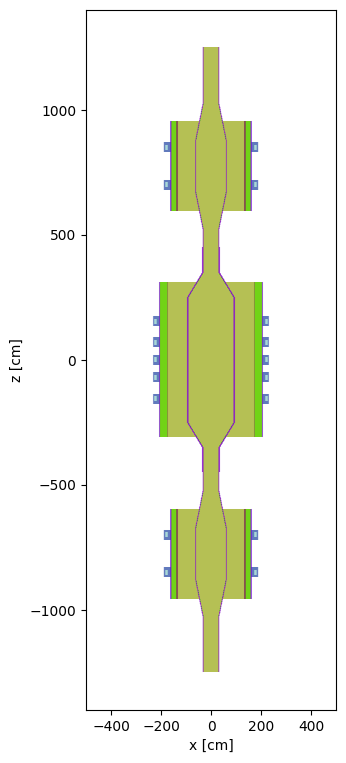
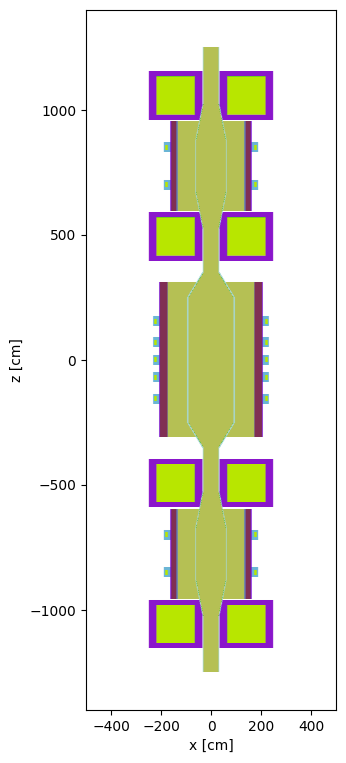
HF Coils added

diff --git a/tandem_geometry.py b/tandem_geometry.py
@@ -43,9 +43,9 @@ def parse_machine_input(input_data, material_ns):
         "central_fw": cc_fw_layers,
         "right_fw": ep_fw_layers,  # reuse
         "param_dict": {
-            "central": (cc_vv["outer_axial_length"], cc_vv["central_axis_length"], sep/2, sep/2, 0.0),
-            "left": (ep_vv["outer_axial_length"], ep_vv["central_axis_length"], end_axial, sep/2, left_midplane),
-            "right": (ep_vv["outer_axial_length"], ep_vv["central_axis_length"], sep/2, end_axial, right_midplane),
+            "central": (cc_vv["outer_axial_length"], cc_vv["central_axis_length"], sep/10, sep/10, 0.0),
+            "left": (ep_vv["outer_axial_length"], ep_vv["central_axis_length"], end_axial, 9*sep/10, left_midplane),
+            "right": (ep_vv["outer_axial_length"], ep_vv["central_axis_length"], 9*sep/10, end_axial, right_midplane),
         },
         "base_radii": {
             "central": cc_vv["central_radius"],
@@ -85,7 +85,20 @@ def parse_machine_input(input_data, material_ns):
         "end": input_data.get("end_plug", {}).get("lf_coil", {})
     }
 
-    return vv_params, fw_params, cyl_params, lf_coil_params
+    # --------- 5. HF Coil Params ---------
+    hf_coil_data = input_data.get("end_plug", {}).get("hf_coil", {})
+
+    hf_coil_params = {
+        key: {
+            "magnet": hf_coil_data.get(key, {}).get("magnet", {}),
+            "casing_layers": {
+                "thicknesses": [layer["thickness"] for layer in hf_coil_data.get(key, {}).get("casing_layers", [])],
+                "materials": [layer["material"] for layer in hf_coil_data.get(key, {}).get("casing_layers", [])]
+            },
+            "shield": hf_coil_data.get(key, {}).get("shield", {})
+        } for key in ["left", "right"]}
+
+    return vv_params, fw_params, cyl_params, lf_coil_params, hf_coil_params
 
 
 
@@ -139,8 +152,8 @@ class TandemVacuumVessel:
             central_cell_vv_central_axis_length,
             central_cell_central_radius,
             self.bottleneck_radius,
-            self.central_cell_end_plug_separation_distance / 2,
-            self.central_cell_end_plug_separation_distance / 2,
+            self.central_cell_end_plug_separation_distance / 10,
+            self.central_cell_end_plug_separation_distance / 10,
             axial_midplane=0.0,
         )
 
@@ -149,7 +162,7 @@ class TandemVacuumVessel:
             end_plug_vv_central_axis_length,
             end_plug_vv_central_radius,
             self.bottleneck_radius,
-            self.central_cell_end_plug_separation_distance / 2,
+            9 * self.central_cell_end_plug_separation_distance / 10,
             self.end_axial_distance,
             axial_midplane=right_midplane,
         )
@@ -160,7 +173,7 @@ class TandemVacuumVessel:
             end_plug_vv_central_radius,
             self.bottleneck_radius,
             self.end_axial_distance,
-            self.central_cell_end_plug_separation_distance / 2,
+            9 * self.central_cell_end_plug_separation_distance / 10,
             axial_midplane=left_midplane,
         )
 
@@ -194,6 +207,7 @@ class TandemFWStructure:
         self._cells_by_region = {"left": [], "central": [], "right": []}
         self._regions_by_region = {"left": [], "central": [], "right": []}
         self._z_extents = {}
+        self._fw_radii = {"left": [], "central": [], "right": []}
 
     def _process_layers(self, layer_dict, base_radius, bottleneck_radius, mat_ns):
         thicknesses = [layer["thickness"] for layer in layer_dict]
@@ -205,6 +219,11 @@ class TandemFWStructure:
     def build_all_sections(self, region_dict, param_dict, mat_ns, base_radii, bottleneck_radii, add_cell_callback):
         for key, fw_layers in zip(["left", "central", "right"], [self.left_fw, self.central_fw, self.right_fw]):
             outer_len, central_len, left_len, right_len, midplane = param_dict[key]
+            
+            # Flags
+            # print(f"For {[key]} section the left legnth is {left_len}")
+            # print(f"For {[key]} section the right legnth is {right_len}")
+            
             base_region = region_dict[key]
             base_r = base_radii[key]
             bott_r = bottleneck_radii[key]
@@ -214,6 +233,8 @@ class TandemFWStructure:
             self._z_extents[key] = (z_min, z_max)
 
             vac_radii, bott_radii, materials = self._process_layers(fw_layers, base_r, bott_r, mat_ns)
+
+            self._fw_radii[key] = bott_radii
 
             regions = [base_region]
             cells = []
@@ -248,6 +269,10 @@ class TandemFWStructure:
     def get_z_extents(self):
         return self._z_extents
     
+    def fw_radii(self):
+        return self._fw_radii
+        
+
 class TandemCentralCylinders:
     """
     Builds concentric cylindrical axial layers for left plug, central cell, and right plug regions.
@@ -396,6 +421,129 @@ class LFCoilBuilder:
 
     def get_regions_by_region(self):
         return self._regions_by_region
+    
+
+class HFCoilBuilder:
+    """
+    Builds HF Coils around the left and right end plugs.
+    Verifies that the bore radius matches the combined bottleneck + shield + casing geometry.
+    """
+
+    def __init__(self, hf_coil_params):
+        """
+        Parameters
+        ----------
+        hf_coil_params : dict
+            Output from parse_machine_input()[4]
+        """
+        self.coil_data = hf_coil_params
+        self._cells_by_region = {region: {"coil": [], "shield": []} for region in ["left", "right"]}
+        self._regions_by_region = {region: {"coil": [], "shield": []} for region in ["left", "right"]}
+
+    def build_all_sections(self, bottleneck_radii, cc_half_lengths, midplanes, mat_ns, add_cell_callback):
+        i = 0
+        for key in ["left", "right"]:
+            hf_data = self.coil_data[key]
+            magnet = hf_data["magnet"]
+            casing = hf_data["casing_layers"]
+            shield = hf_data["shield"]
+
+            casing_thicknesses = np.array(casing["thicknesses"])
+            casing_materials = [getattr(mat_ns, mat) for mat in casing["materials"]]
+            bore_radius = magnet["bore_radius"]
+            bottleneck_r = bottleneck_radii[key]
+
+            # Check bore radius
+            computed_bore = bottleneck_r + shield["radial_thickness"][0] + shield["radial_gap_before_casing"] + np.sum(casing_thicknesses)
+            if not np.isclose(computed_bore, bore_radius, atol=1e-4):
+                raise ValueError(f"HF {key} bore radius mismatch: expected {bore_radius}, got {computed_bore:.4f}")
+
+            # Compute base radius before casing begins
+            r_inner = bottleneck_r + shield["radial_thickness"][0] + shield["radial_gap_before_casing"]
+
+            for direction in ["inward", "outward"]:
+                if direction == "inward":
+                    axial_sign = 1 if key == "left" else -1
+                    axial_thickness = shield["axial_thickness"][0]
+                else:
+                    axial_sign = -1 if key == "left" else 1
+                    axial_thickness = shield["axial_thickness"][0]
+                z0 = (
+                    midplanes[key]
+                    + axial_sign * (
+                        cc_half_lengths[key]
+                        + shield["shield_central_cell_gap"]
+                        + axial_thickness
+                        + np.sum(casing_thicknesses)
+                        + magnet["axial_thickness"] / 2
+                    )
+                )
+
+                print(f"The z0 for the {direction} magnet on the {key} side is {z0}.")
+
+                # Magnet and casing
+                casing_regions = nested_cylindrical_shells(
+                    z0=z0,
+                    innermost_radius=r_inner,
+                    inner_radial_thickness=magnet["radial_thickness"],
+                    inner_axial_thickness=magnet["axial_thickness"],
+                    layer_front_thickness=casing_thicknesses,
+                    layer_back_thickness=casing_thicknesses,
+                    layer_axial_thickness=casing_thicknesses
+                )
+
+                magnet_region = casing_regions[0]
+                magnet_cell = openmc.Cell(
+                    cell_id=6100 + i,
+                    region=magnet_region,
+                    fill=getattr(mat_ns, magnet["material"])
+                )
+                self._regions_by_region[key]["coil"].append(magnet_region)
+                self._cells_by_region[key]["coil"].append(magnet_cell)
+                add_cell_callback(magnet_cell)
+
+                for j, region in enumerate(casing_regions[1:]):
+                    casing_cell = openmc.Cell(
+                        cell_id=6500 + i * 10 + j,
+                        region=region,
+                        fill=casing_materials[j]
+                    )
+                    self._regions_by_region[key]["coil"].append(region)
+                    self._cells_by_region[key]["coil"].append(casing_cell)
+                    add_cell_callback(casing_cell)
+
+                # Shield
+                outer_r_thick = magnet["radial_thickness"] + 2 * np.sum(casing_thicknesses)
+                outer_z_thick = magnet["axial_thickness"] + 2 * np.sum(casing_thicknesses)
+                r_shield_base = bottleneck_r + shield["radial_gap_before_casing"]
+
+                shield_region = hollow_cylinder_with_shell(
+                    z0,
+                    r_shield_base,
+                    outer_r_thick,
+                    outer_z_thick,
+                    shield["radial_thickness"][0],
+                    shield["radial_thickness"][1],
+                    axial_thickness
+                )[0]
+
+                shield_cell = openmc.Cell(
+                    cell_id=6200 + i,
+                    region=shield_region,
+                    fill=getattr(mat_ns, shield["material"])
+                )
+                self._regions_by_region[key]["shield"].append(shield_region)
+                self._cells_by_region[key]["shield"].append(shield_cell)
+                add_cell_callback(shield_cell)
+
+                i += 1
+
+    def get_cells_by_region(self):
+        return self._cells_by_region
+
+    def get_regions_by_region(self):
+        return self._regions_by_region
+
 
             
 
@@ -404,17 +552,19 @@ class TandemMachineBuilder:
     Assembles vacuum vessel, first wall, and central cylinder structures into a complete tandem mirror model.
     """
 
-    def __init__(self, vv_params, fw_params, central_cyl_params, lf_coil_params, material_ns):
+    def __init__(self, vv_params, fw_params, central_cyl_params, lf_coil_params, hf_coil_params, material_ns):
         self.vv_params = vv_params
         self.fw_params = fw_params
         self.central_cyl_params = central_cyl_params
         self.lf_coil_params = lf_coil_params
+        self.hf_coil_params = hf_coil_params
         self.material_ns = material_ns
 
         self.vv_builder = None
         self.fw_builder = None
         self.ccyl_builder = None
         self.lf_coil_builder = None
+        self.hf_coil_builder = None
 
         self._universe = openmc.Universe(name="TandemMachine")
         self._all_cells = []
@@ -443,7 +593,7 @@ class TandemMachineBuilder:
             self.fw_params.get("right_fw", None)
         )
 
-        fw_cells = self.fw_builder.build_all_sections(
+        self.fw_builder.build_all_sections(
             region_dict=self._regions["vv"],
             param_dict=self.fw_params["param_dict"],
             mat_ns=self.material_ns,
@@ -454,6 +604,7 @@ class TandemMachineBuilder:
 
         self._regions["fw"] = self.fw_builder.get_regions_by_region()
         self._z_extents["fw"] = self.fw_builder.get_z_extents()
+
 
         # ----- 3. Central Cylinders -----
         base_regions = {
@@ -502,6 +653,33 @@ class TandemMachineBuilder:
         )
 
         self._regions["lf_coils"] = self.lf_coil_builder.get_regions_by_region()
+
+    # ----- 5. HF Coils -----
+        
+        self.hf_coil_builder = HFCoilBuilder(self.hf_coil_params)
+        
+        #print(self.fw_builder.fw_radii()["left"])
+        
+        bottleneck_radii = {
+            "left": self.fw_builder.fw_radii()["left"][-1],
+            "right": self.fw_builder.fw_radii()["right"][-1]
+        }
+        
+        cc_half_lengths = {
+            key: self.central_cyl_params["axial_lengths"][key] / 2
+            for key in ["left", "right"]
+        }
+        self.hf_coil_builder.build_all_sections(
+            bottleneck_radii=bottleneck_radii,
+            cc_half_lengths=cc_half_lengths,
+            midplanes={
+                "left": self.central_cyl_params["midplanes"]["left"],
+                "right": self.central_cyl_params["midplanes"]["right"]
+            },
+            mat_ns=self.material_ns,
+            add_cell_callback=self._add_cell
+        )
+        self._regions["hf_coils"] = self.hf_coil_builder.get_regions_by_region()
 
     # ---------- Accessors ----------
     def get_universe(self):

diff --git a/tandem_mirror_model_constructor.py b/tandem_mirror_model_constructor.py
@@ -18,9 +18,9 @@ universe_machine = openmc.Universe(786)
 with open("input_files/tandem_parametric_input.yaml", "r") as f:
     input_data = yaml.safe_load(f)
 
-vv_params, fw_params, cyl_params, lf_coil_params = parse_machine_input(input_data, m)
+vv_params, fw_params, cyl_params, lf_coil_params, hf_coil_params = parse_machine_input(input_data, m)
 
-builder = TandemMachineBuilder(vv_params, fw_params, cyl_params, lf_coil_params, m)
+builder = TandemMachineBuilder(vv_params, fw_params, cyl_params, lf_coil_params, hf_coil_params, m)
 builder.build()
 
 universe_machine = builder.get_universe()
